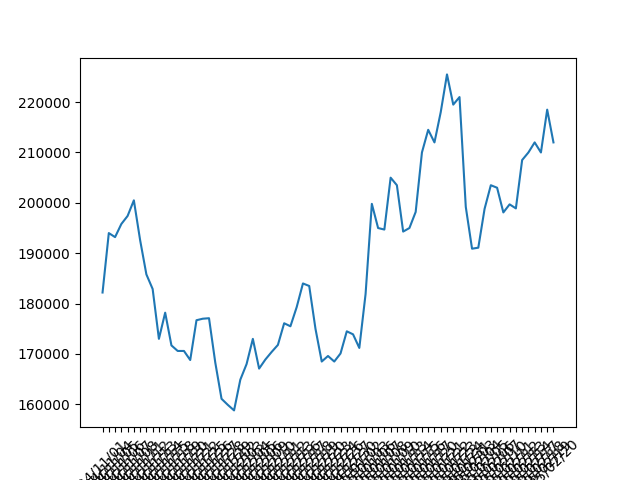
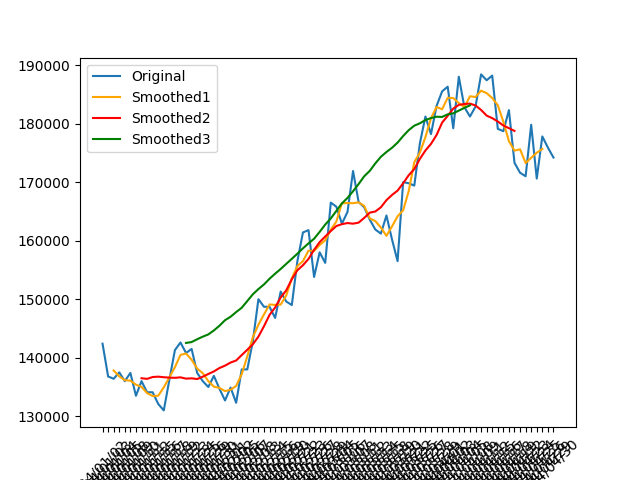
[Create]스무딩 기능

diff --git a/dataProcessing.py b/dataProcessing.py
@@ -3,6 +3,29 @@ import numpy as np
 import pandas as pd
 
 
+def mean_average(data, mean_width):
+    new_array = []
+    mean_width = int(mean_width)
+    half_width = int(mean_width / 2)
+
+    # for _ in range(half_width):
+    #     new_array.append(0)
+
+    for idx, _ in enumerate(data):
+        if idx < half_width:
+            newValue = None
+        elif idx > len(data) - (half_width + 1):
+            newValue = None
+        else:
+            newValue = sum(data[idx - half_width : idx + half_width + 1]) / mean_width
+        new_array.append(newValue)
+
+    # for _ in range(half_width):
+    #     new_array.append(0)
+
+    return new_array
+
+
 def GetFiltered_clpr(data):
     columns = ["dates","values"]
     df = pd.DataFrame(columns=columns)
@@ -20,7 +43,18 @@ def GetFiltered_clpr(data):
 
     fig, ax = plt.subplots()
     df_sorted = df.sort_values("dates")
+
+    # 스무딩 처리
+    df_smoothed1 = mean_average(df_sorted["values"], 5)
+    df_smoothed2 = mean_average(df_sorted["values"], 15)
+    df_smoothed3 = mean_average(df_sorted["values"], 30)
+
     ax.plot(df_sorted["dates"], df_sorted["values"])
+    ax.plot(df_smoothed1, "orange")
+    ax.plot(df_smoothed2, "red")
+    ax.plot(df_smoothed3, "green")
+    ax.legend(["Original", "Smoothed1", "Smoothed2", "Smoothed3"])
+    # ax.legend(["Original", "Smoothed1"])
 
     # y축에 0원부터 표시됐으면 좋겠는데, 기간 내 최저가부터 표시가 됨. 이를 수정해야 함.
     # ax.set_ylim(bottom=0)
@@ -37,5 +71,4 @@ def GetFiltered_clpr(data):
     fig.savefig(f"{data['output1']['stck_shrn_iscd']}_result.png")
 
     print(df)
-
-    return df
+    return True
